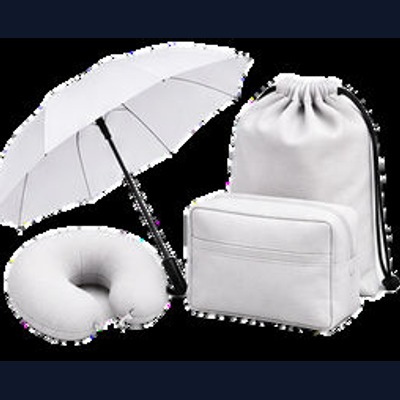
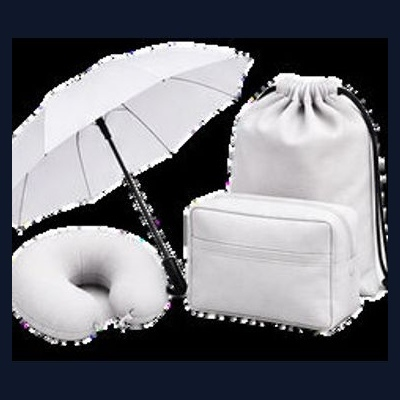
Fix moving marquee ribbon, update luxury suite gold backgrounds, fix kit images, and remove star emojis

Changed region(s): [[0.96, 0.09, 1.0, 0.9], [0.0, 0.09, 0.03, 0.9], [0.21, 0.84, 0.24, 0.87]]

diff --git a/src/components/events-showcase.tsx b/src/components/events-showcase.tsx
@@ -64,28 +64,48 @@ export function EventsShowcase() {
   }, [activeImageIndex]);
 
   return (
-    <section className="relative overflow-hidden bg-stone-50/70 dark:bg-navy/40 border-y border-border py-14 sm:py-20">
+    <section className="relative overflow-hidden bg-stone-50/70 dark:bg-navy/40 border-y border-border py-8 sm:py-12">
+      <style>{`
+        @keyframes showcaseMarqueeAnim {
+          0% {
+            transform: translate3d(0, 0, 0);
+          }
+          100% {
+            transform: translate3d(-50%, 0, 0);
+          }
+        }
+        .showcase-marquee-track {
+          display: flex;
+          width: max-content;
+          will-change: transform;
+          animation: showcaseMarqueeAnim 42s linear infinite;
+        }
+        .showcase-marquee-track:hover {
+          animation-play-state: paused;
+        }
+      `}</style>
+
       {/* Section Header (clean, concise, unlabelled photos) */}
-      <div className="mx-auto max-w-6xl px-4 text-center space-y-2 mb-8 sm:mb-12">
-        <p className="eyebrow text-brand font-extrabold uppercase tracking-widest text-[11px]">
+      <div className="mx-auto max-w-6xl px-4 text-center space-y-1.5 mb-6 sm:mb-8">
+        <p className="eyebrow text-brand font-extrabold uppercase tracking-widest text-[10px] sm:text-[11px]">
           Finished Work • Authentic Production Samples
         </p>
-        <h2 className="font-display text-2xl sm:text-4xl font-extrabold text-foreground tracking-tight">
+        <h2 className="font-display text-xl sm:text-2xl md:text-3xl font-extrabold text-foreground tracking-tight">
           Our Work in Action
         </h2>
-        <p className="text-xs sm:text-sm text-muted-foreground max-w-xl mx-auto">
-          A continuous look at completed corporate merchandise, executive gift packaging, and event productions delivered nationwide.
+        <p className="text-xs sm:text-sm text-muted-foreground max-w-lg mx-auto">
+          Completed corporate merchandise, executive gift packaging, and event productions delivered nationwide.
         </p>
       </div>
 
       {/* Moving Line / Infinite Marquee Ribbon */}
       <div className="relative w-full overflow-hidden">
         {/* Soft edge gradient fades */}
-        <div className="pointer-events-none absolute inset-y-0 left-0 w-16 sm:w-32 bg-gradient-to-r from-background via-background/80 to-transparent z-10" />
-        <div className="pointer-events-none absolute inset-y-0 right-0 w-16 sm:w-32 bg-gradient-to-l from-background via-background/80 to-transparent z-10" />
+        <div className="pointer-events-none absolute inset-y-0 left-0 w-12 sm:w-24 bg-gradient-to-r from-stone-50 dark:from-navy/90 to-transparent z-10" />
+        <div className="pointer-events-none absolute inset-y-0 right-0 w-12 sm:w-24 bg-gradient-to-l from-stone-50 dark:from-navy/90 to-transparent z-10" />
 
-        {/* Marquee Track (duplicated for seamless loop) */}
-        <div className="animate-marquee-slow flex items-center gap-4 sm:gap-6 py-2">
+        {/* Marquee Track (duplicated for seamless continuous loop) */}
+        <div className="showcase-marquee-track items-center gap-3 sm:gap-4 py-1">
           {[...SHOWCASE_IMAGES, ...SHOWCASE_IMAGES].map((img, idx) => {
             const originalIndex = idx % SHOWCASE_IMAGES.length;
             return (
@@ -93,13 +113,13 @@ export function EventsShowcase() {
                 key={`${img.id}-${idx}`}
                 type="button"
                 onClick={() => setActiveImageIndex(originalIndex)}
-                className="group relative h-[240px] sm:h-[300px] md:h-[340px] w-[300px] sm:w-[380px] md:w-[440px] shrink-0 overflow-hidden rounded-2xl border border-border/80 bg-card shadow-sm hover:shadow-2xl hover:border-brand/60 transition-all duration-300 hover:-translate-y-1 cursor-pointer text-left focus:outline-hidden"
+                className="group relative h-36 sm:h-44 md:h-48 w-52 sm:w-64 md:w-72 shrink-0 overflow-hidden rounded-xl border border-border/80 bg-card shadow-xs hover:shadow-lg hover:border-brand/60 transition-all duration-200 cursor-pointer text-left focus:outline-hidden"
               >
                 <img
                   src={img.src}
                   alt={img.alt}
                   loading="lazy"
-                  className="h-full w-full object-cover transition-transform duration-500 group-hover:scale-105"
+                  className="h-full w-full object-cover transition-transform duration-300 group-hover:scale-105"
                 />
                 {/* Subtle hover overlay hint with zero labels */}
                 <div className="absolute inset-0 bg-navy/0 group-hover:bg-navy/15 transition-colors" />
@@ -110,7 +130,7 @@ export function EventsShowcase() {
       </div>
 
       {/* Interactive Helper note */}
-      <p className="text-center text-[11px] text-muted-foreground mt-4 font-medium tracking-wide">
+      <p className="text-center text-[11px] text-muted-foreground mt-3 font-medium tracking-wide">
         Hover to pause • Click any photo to view in full resolution
       </p>
 

diff --git a/src/routes/index.tsx b/src/routes/index.tsx
@@ -408,8 +408,8 @@ function LandingPage() {
                       className="h-full w-full object-contain transition-transform duration-500 group-hover:scale-105"
                     />
                     {isPremium ? (
-                      <span className="absolute top-3 right-3 bg-gradient-to-r from-amber-500 via-yellow-500 to-amber-600 text-white text-[11px] font-extrabold px-3 py-1 rounded-sm flex items-center gap-1.5 shadow-md border border-amber-200/40">
-                        <Sparkles className="h-3 w-3 text-yellow-100" /> Premium Suite
+                      <span className="absolute top-3 right-3 bg-gradient-to-r from-amber-500 via-yellow-500 to-amber-600 text-white text-[11px] font-extrabold px-3 py-1 rounded-sm flex items-center shadow-md border border-amber-200/40 tracking-wide uppercase">
+                        Premium Suite
                       </span>
                     ) : (
                       <span className="absolute top-3 right-3 bg-navy/90 backdrop-blur-xs text-white text-[11px] font-bold px-2.5 py-1 rounded-xs flex items-center gap-1 shadow-sm">

diff --git a/src/components/product-picker.tsx b/src/components/product-picker.tsx
@@ -409,8 +409,8 @@ export function ProductPicker() {
 
                         {/* Gold Badge for Premium Bundles */}
                         {isPremium ? (
-                          <span className="absolute top-2 left-2 bg-gradient-to-r from-amber-500 via-yellow-500 to-amber-600 text-white text-[10px] font-extrabold uppercase tracking-wider px-2.5 py-1 rounded-sm flex items-center gap-1 shadow-md border border-amber-200/40">
-                            <Sparkles className="h-3 w-3 text-yellow-100" /> Premium Suite
+                          <span className="absolute top-2 left-2 bg-gradient-to-r from-amber-500 via-yellow-500 to-amber-600 text-white text-[10px] font-extrabold uppercase tracking-wider px-2.5 py-1 rounded-sm flex items-center shadow-md border border-amber-200/40">
+                            Premium Suite
                           </span>
                         ) : (
                           <span className="absolute top-2 left-2 bg-navy/90 text-white text-[10px] font-bold px-2 py-0.5 rounded-sm">
